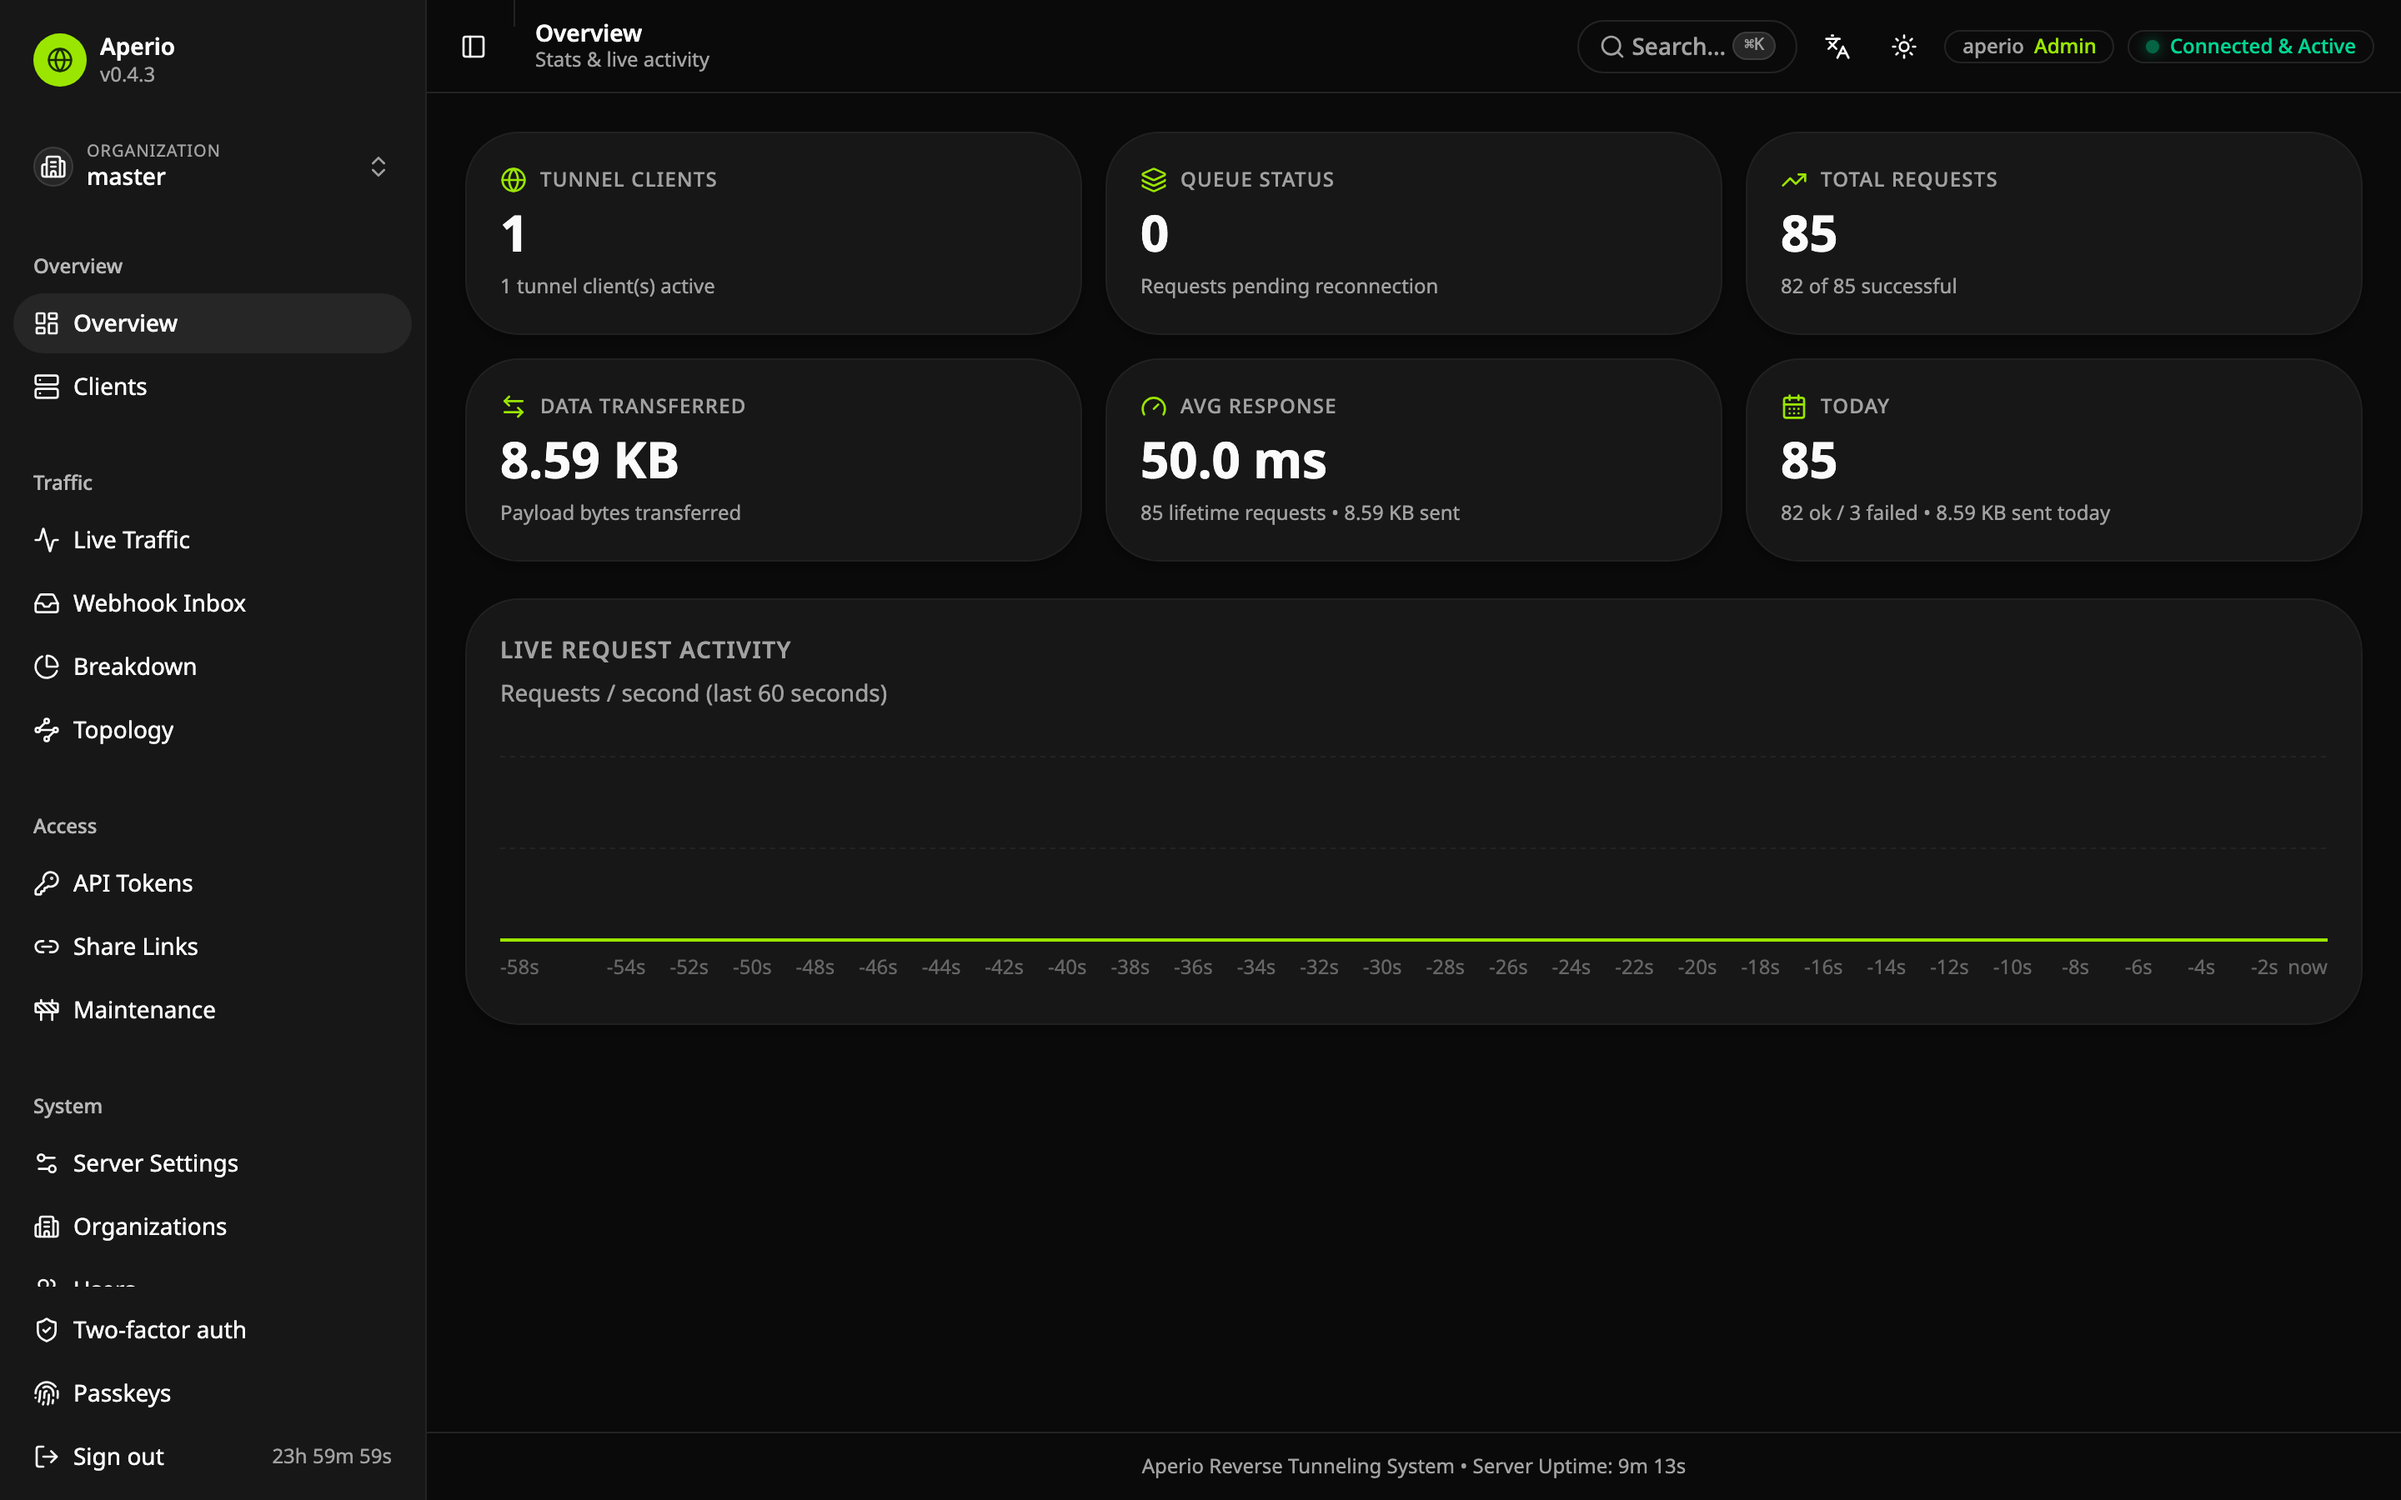
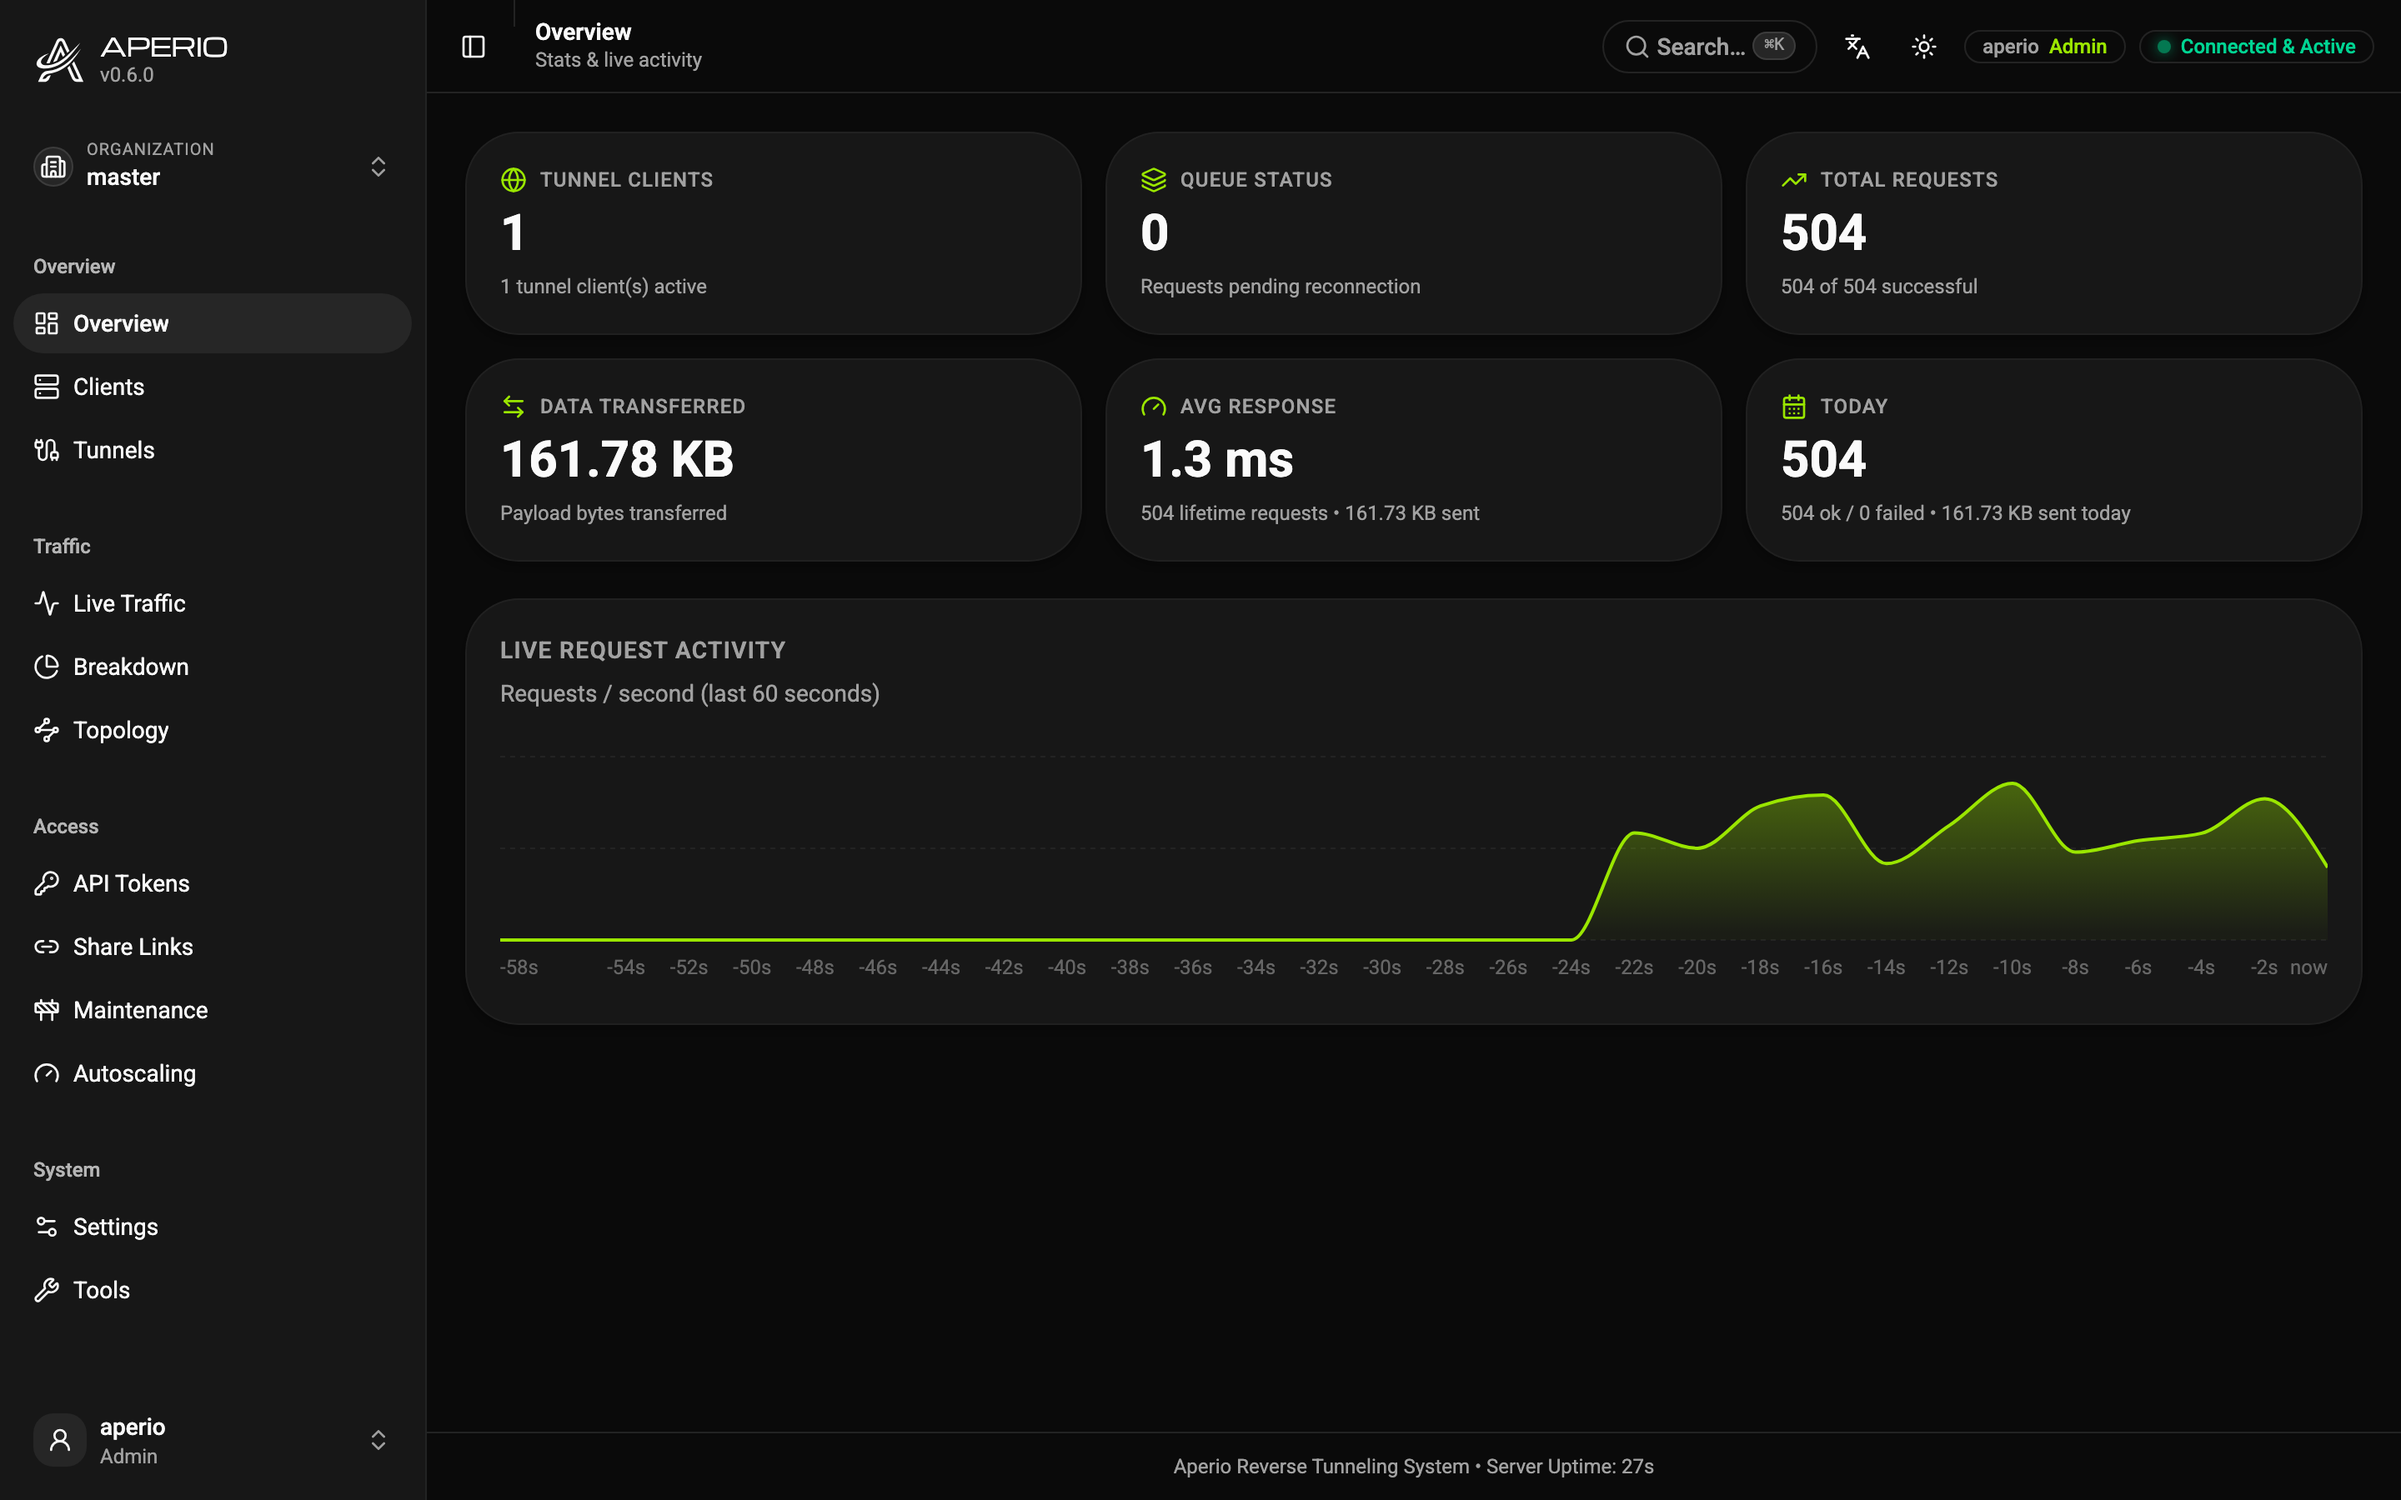
docs: re-capture the dashboard screenshots, with a script that does it
The images were taken by hand at v0.4.3 and had been wrong for two
releases: an old mark, a sidebar listing pages that no longer exist,
none of Tunnels, Settings or Tools, and a version number in the corner
that gave it away. A screenshot nobody can refresh in a minute is a
screenshot that goes stale, so the fix is `npm run capture:docs` rather
than another afternoon of doing it carefully by hand.

The script stands up a throwaway instance — server on a temp data
directory, a demo backend, one client declaring a service and a
tunnel — drives traffic through it, and captures all five figures at
1440x900 @2x, the size the existing files were at. It stops everything
and removes the directory afterwards, including when it fails.

Four things it has to get right, each of which was a wrong capture
first:

- `/aperio`, not `/aperio/`. With a trailing slash the request is not
  the dashboard at all; it falls through to the proxy and reaches a
  tunnel client, which answered with its own 504.
- Not `networkidle`. The dashboard holds an event stream open, so the
  network is never idle and the wait only ever expires.
- `node:http` for the demo traffic, because a visitor's identity here is
  the `Host` header and `fetch` silently drops it: every request landed
  on the dashboard's own host, and the traffic screens were captured
  empty while the run reported success.
- The per-IP rate limit lifted for the instance. Every request in a
[…]

diff --git a/CHANGELOG.md b/CHANGELOG.md
@@ -59,6 +59,9 @@ project follows semantic versioning per release tag.
 
 ### Changed
 
+- **The dashboard screenshots in the README and the docs are current again**, and re-capturing them is now `npm run capture:docs` rather than an afternoon: the script brings up a throwaway instance, drives demo traffic through it, and captures every page at the same size as before. The old set was taken at v0.4.3 and showed a sidebar, a logo and a set of pages that no longer exist.
+
+
 - **A name is an identifier: `a-z`, `0-9` and `_`.** Organizations, services and tunnels are all addressed by name — in `payments@postgres`, in a `bind-tunnels:` key, in a server's `expose:` rule — and a name that can be written more than one way is a way to reach the wrong thing: `Postgres` and `postgres`, `pg-main` and `pg_main`, an `i` that is actually `ı`. One rule now covers all of them, checked by the client at startup, by `check`, and by the server when an organization is created. What is left out is left out on purpose: `-`, `.`, `*` and `@` carry no meaning inside a name, which is what keeps them available as syntax *around* one (`@` already separates an organization from a tunnel).
 
   **This is breaking, and deliberately so:** a file that named a service or a tunnel anything else no longer starts, and the message names the fix (`pg-main` → `pg_main`). The derived handle of an unnamed tunnel changed spelling with it: `127-0-0-1-5432-tcp` is now `127_0_0_1_5432_tcp`. Recorded in `CONFIG_CHANGES`, so an upgrade says so rather than failing obscurely.

diff --git a/docs/development.md b/docs/development.md
@@ -17,6 +17,8 @@ To skip the frontend build (reusing an existing `aperio-dashboard/dist/`), set `
 
 Dashboard tests: `npm run test` runs the [vitest](https://vitest.dev) unit suite (pure lib functions; scans `src/` only), which CI runs alongside the i18n check. `npm run test:e2e` runs the [Playwright](https://playwright.dev) shell smoke test against a static `vite preview` build (one-time `npx playwright install chromium` first); it is not wired into CI because full API-backed journeys need a running server.
 
+**Screenshots.** The images in `README.md` and [Dashboard](dashboard.md) are re-captured with `npm run capture:docs` (in `aperio-dashboard/`, after `cargo build --workspace`). It brings up a throwaway instance on its own temp directory, drives demo traffic through it so the screens have something real to show, captures each page at 1440x900 @2x, and stops everything. Run it whenever the UI changes shape — the first set went stale within two releases because refreshing them was a manual afternoon.
+
 ## Tests & end-to-end suite
 
 `cargo test --all` runs the unit tests. `bash tests/e2e.sh` runs the end-to-end suite, a real `aperio-server`, several `aperio-client` processes, and stdlib-only Python mock backends, exercised phase by phase (proxying, dashboard APIs, auth, failover, load balancing, WebSocket pass-through, emergency tunnels, ...). CI runs both on every push and pull request, plus `cargo clippy -D warnings`, `cargo fmt --check`, and a `cargo audit` scan of the dependency tree.
